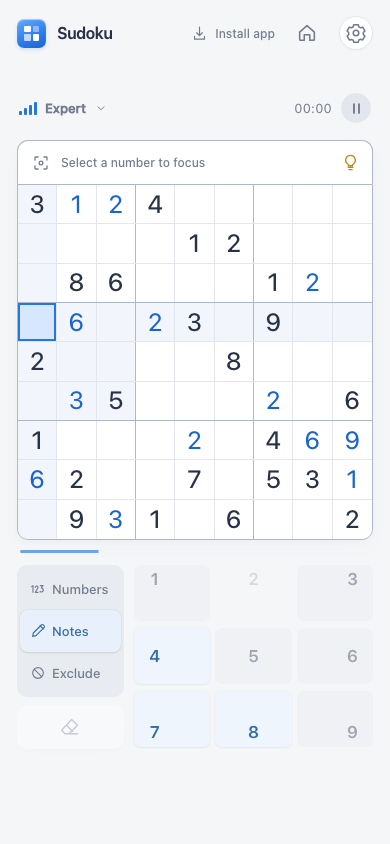
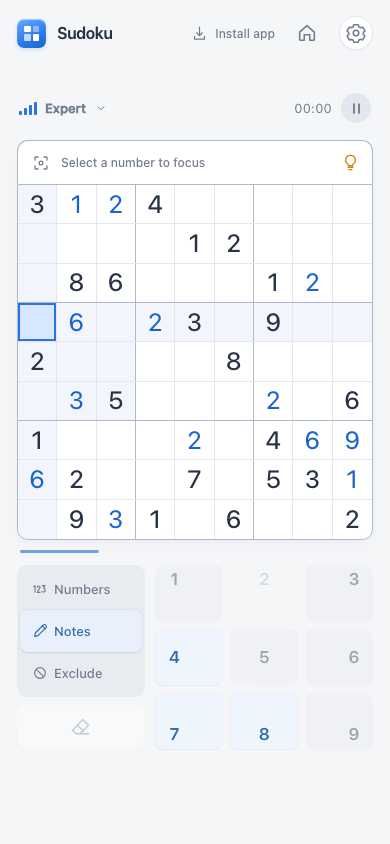
feat(keypad): side-by-side on wide short screens, one top row on short portrait, roomier mode column

diff --git a/src/app/globals.css b/src/app/globals.css
@@ -1,6 +1,6 @@
 :root {
   color-scheme: light;
-  --safe-top: env(safe-area-inset-top, 0px); --safe-bottom: env(safe-area-inset-bottom, 0px); --pad-bottom: 20px;
+  --safe-top: env(safe-area-inset-top, 0px); --safe-bottom: env(safe-area-inset-bottom, 0px); --pad-bottom: 20px; --bar-height: 94px;
   --note-red: #92545e; --note-blue: #346da8; --canvas: #f5f6f8; --surface: #fff; --ink: #273246; --secondary: #717c8e; --muted: #6b7485;
   --blue: #2776df; --blue-strong: #1965cd; --blue-soft: #e8f0fc; --selection: #d6e7ff;
   --possible: #e1f2e7; --peer: #f2f6fc; --matching: #e1edff; --line: #e3e7ed; --box-line: #adb9ca;
@@ -36,7 +36,7 @@ button { transition: transform 100ms ease, background-color 120ms ease, opacity 
 svg { flex-shrink: 0; display: inline-block; vertical-align: middle; }
 h1,h2,h3,p { margin: 0; }
 .app { min-height: 100svh; padding: var(--safe-top) max(20px, env(safe-area-inset-right)) max(var(--pad-bottom), var(--safe-bottom)) max(20px, env(safe-area-inset-left)); }
-.app-bar { max-width: 1040px; height: 94px; margin: 0 auto; display: flex; align-items: center; justify-content: space-between; }
+.app-bar { max-width: 1040px; height: var(--bar-height); margin: 0 auto; display: flex; align-items: center; justify-content: space-between; }
 .brand { display: flex; gap: 11px; align-items: center; font-size: 18px; font-weight: 650; letter-spacing: -.5px; }
 .app-mark { width: 62px; height: 62px; border-radius: 15px; display: grid; grid-template-columns: 1fr 1fr; gap: 4px; padding: 16px; background: linear-gradient(155deg, #65acff, #2878e8 65%, #1d63d1); box-shadow: inset 0 1px 1px #ffffff80, 0 2px 4px #2064bc24; }
 .app-mark i { display: block; border-radius: 2px; background: white; }
@@ -46,10 +46,9 @@ h1,h2,h3,p { margin: 0; }
 .install-button { display: flex; align-items: center; gap: 7px; min-height: 44px; font-size: 13px; font-weight: 500; color: var(--secondary); }
 .icon-button { width: 40px; height: 40px; display: grid; place-items: center; border-radius: 50%; color: var(--secondary); }
 .settings-button { background: var(--surface); box-shadow: 0 1px 3px #23395508; border: 1px solid var(--line); }
-.game { --game-width: 444px; --around-board: 490px; max-width: var(--game-width); margin: 28px auto 0; }
+.game { --game-width: 444px; --around-board: 396px; max-width: var(--game-width); margin: 28px auto 0; }
 /* The board's width is capped by the height left after everything else, so a short screen shrinks the board instead of hiding keys. */
-.game.play { max-width: max(280px, min(var(--game-width), calc(100svh - var(--around-board) - var(--safe-top) - max(0px, var(--safe-bottom) - var(--pad-bottom))))); }
-@media (max-height: 599px) { .game.play { max-width: var(--game-width); } }
+.game.play { max-width: max(280px, min(var(--game-width), calc(100svh - var(--around-board) - var(--bar-height) - var(--safe-top) - max(0px, var(--safe-bottom) - var(--pad-bottom))))); }
 .game-meta { position: relative; display: flex; align-items: center; justify-content: space-between; padding: 0 2px 11px; min-height: 55px; }
 .difficulty-button { display: flex; align-items: center; gap: 8px; color: var(--secondary); font-size: 13px; font-weight: 550; min-height: 30px; }
 .capitalize { text-transform: capitalize; }
@@ -107,22 +106,23 @@ h1,h2,h3,p { margin: 0; }
   .icon-button:hover { background: var(--line); }
   .install-button:hover { color: var(--blue); }
 }
-@media (min-width: 601px) and (max-height: 950px) { .app-bar { height: 68px; }.game { margin-top: 12px; --game-width: 420px; --around-board: 452px; }.desktop-caption { margin-top: 22px; } }
+@media (min-width: 601px) and (max-height: 950px) { :root { --bar-height: 68px; }.game { margin-top: 12px; --game-width: 420px; --around-board: 384px; }.desktop-caption { margin-top: 22px; } }
 @media (max-width: 600px) {
   :root { --pad-bottom: 10px; }
   .app { padding-left: max(17px,env(safe-area-inset-left)); padding-right: max(17px,env(safe-area-inset-right)); }
-  .app-bar { height: 66px; }.brand { font-size: 16px; }.app-actions { gap: 12px; }.settings-button { width: 34px; height: 34px; }.install-button { font-size: 12px; }
-  .game { margin-top: 19px; --around-board: 410px; }
-  .game-meta { padding-bottom: 9px; }.number-pad { gap: 5px; }.number-key { border-radius: 7px; }.number-key>span { font-size: 25px; }.desktop-caption { display: none; }
+  :root { --bar-height: 66px; }.brand { font-size: 16px; }.app-actions { gap: 12px; }.settings-button { width: 34px; height: 34px; }.install-button { font-size: 12px; }
+  .game { margin-top: 19px; --around-board: 344px; }
+  .game-meta { padding-bottom: 9px; }.number-key { border-radius: 7px; }.number-key>span { font-size: 25px; }.desktop-caption { display: none; }
   .sheet { width: 100%; max-width: 100%; max-height: 92svh; margin: auto 0 0; border-radius: 22px 22px 0 0; border-bottom: 0; }.sheet-content { padding: 31px 25px max(20px,env(safe-area-inset-bottom)); }.sheet-handle { display: block; position: absolute; width: 32px; height: 4px; border-radius: 4px; background: var(--line); top: 10px; left: calc(50% - 16px); }.sheet-close { top: 15px; }.sheet h2 { font-size: 23px; }
   .completion { gap: 10px; }.completion h2 { font-size: 19px; }.completion p { font-size: 11px; }.completion .primary-button { font-size: 12px; padding: 0 12px; }
 }
 @media (max-width: 600px) and (max-height: 760px) {
-  .app-bar { height: 53px; }.game { margin-top: 8px; --game-width: 354px; --around-board: 350px; }.game-meta { padding-bottom: 6px; }.progress-line { margin-top: 7px; }
+  :root { --bar-height: 53px; }.game { margin-top: 8px; --game-width: 354px; --around-board: 297px; }.game-meta { padding-bottom: 6px; }.progress-line { margin-top: 7px; }
 }
 @media (max-width: 360px) { .app { padding-left: 12px; padding-right: 12px; }.install-button>span { display: none; }.number-pad { gap: 4px; }.cell-number,.rejected-digit { font-size: 23px; }.number-key>span { font-size: 23px; }.sheet-content { padding-left: 20px; padding-right: 20px; } }
 @media (max-width: 600px) and (max-height: 640px) { .progress-line { margin-top: 5px; } }
-@media (display-mode: standalone) { .app-bar { height: 60px; } }
+@media (display-mode: standalone) { :root { --bar-height: 60px; } }
+@media (min-width: 601px) and (max-height: 760px) { .game { --around-board: 352px; } }
 @media (prefers-reduced-motion: reduce) { *,*::before,*::after { animation-duration: .01ms !important; animation-iteration-count: 1 !important; transition-duration: .01ms !important; } }
 @media (prefers-reduced-motion: reduce) { .rejected-digit,.rejection-source { animation: none !important; } }
 @media (prefers-reduced-motion: reduce) { .unit-celebration { animation: none !important; opacity: 1; } }
@@ -168,7 +168,7 @@ h1,h2,h3,p { margin: 0; }
 
 .note-controls { display: flex; flex-direction: column; align-items: stretch; gap: 8px; }
 .mode-switch { position: relative; flex: 1; display: grid; grid-template-rows: repeat(3, 1fr); padding: 3px; border-radius: 10px; background: color-mix(in srgb, var(--line) 70%, var(--canvas)); }
-.mode-option { position: relative; z-index: 1; transition: color .22s ease; display: flex; align-items: center; justify-content: flex-start; gap: 6px; min-height: 42px; padding: 0 8px; border-radius: 8px; font-size: 13px; font-weight: 500; color: var(--secondary); }
+.mode-option { position: relative; z-index: 1; transition: color .22s ease; display: flex; align-items: center; justify-content: flex-start; gap: 6px; min-height: 42px; padding: 0 12px; border-radius: 8px; font-size: 13px; font-weight: 500; color: var(--secondary); }
 .mode-option:disabled { opacity: .4; }
 .mode-indicator { position: absolute; top: 3px; left: 3px; right: 3px; height: calc((100% - 6px) / 3); border-radius: 8px; box-shadow: 0 1px 2px rgb(0 0 0 / .12); transition: transform .22s ease, background-color .22s ease; }
 .mode-indicator-value { background: var(--surface); }.mode-indicator-note { transform: translateY(100%); background: var(--blue-soft); }.mode-indicator-exclude { transform: translateY(200%); background: var(--red-soft); }
@@ -214,7 +214,7 @@ h1,h2,h3,p { margin: 0; }
 .walk-strike { stroke: var(--red); stroke-width: 2px; vector-effect: non-scaling-stroke; stroke-linecap: round; }
 .walk-ghost { position: absolute; inset: 0; display: grid; place-items: center; font-size: clamp(23px, 6.4vw, 29px); line-height: 1; font-weight: 460; color: var(--hint-strong); pointer-events: none; }
 .board-wrap.walkthrough .cell.walk-answer .notes { visibility: hidden; }
-.controls-area { position: relative; display: grid; grid-template-columns: minmax(96px, 30%) minmax(0, 1fr); gap: 10px; margin-top: 12px; }
+.controls-area { position: relative; display: grid; grid-template-columns: minmax(122px, 36%) minmax(0, 1fr); gap: 10px; margin-top: 12px; }
 @media (max-height: 760px) { .number-pad { gap: 6px; } .number-pad .number-key { height: 48px; } .controls-area { margin-top: 8px; } .note-controls { gap: 6px; } .mode-option { min-height: 36px; } .erase-control { min-height: 36px; } }
 
 .walk-panel { position: absolute; top: 0; left: 0; right: 0; min-height: 100%; z-index: 5; display: flex; flex-direction: column; gap: 8px; padding: 12px 16px; border-radius: 16px; background: var(--hint-soft); border: 1px solid color-mix(in srgb, var(--hint) 35%, transparent); }
@@ -384,3 +384,24 @@ h1,h2,h3,p { margin: 0; }
 @media (hover: hover) { .history-day:is(button):hover { background: var(--peer); } }
 @media (hover: hover) { .home-level:hover { border-color: color-mix(in srgb, var(--level) 45%, transparent); } .home-lesson:hover, .home-install:hover, .home-chip.home-all:hover, .home-chip.home-solved-count:hover, .home-hero:not(.quiet):hover { border-color: var(--box-line); } }
 @media (prefers-reduced-motion: reduce) { .home-hero .home-board { animation: none; } }
+/* Wide, short screens (a folding phone open, laptops, iPads in landscape): the board takes the height and the controls sit beside it. */
+@media (min-aspect-ratio: 5/4) and (min-height: 500px) and (max-height: 820px) {
+  .game.play { --board: max(200px, min(560px, calc(100svh - 144px - var(--bar-height) - var(--safe-top) - max(0px, var(--safe-bottom) - var(--pad-bottom))))); max-width: calc(var(--board) + 28px + 320px); display: grid; grid-template-columns: var(--board) 320px; column-gap: 28px; align-items: start; }
+  .game.play > .game-meta { grid-column: 1; grid-row: 1; }
+  .game.play > .puzzle-panel { grid-column: 1; grid-row: 2; }
+  .game.play > .progress-line { grid-column: 1; grid-row: 3; }
+  .game.play > :is(.controls-area, .completion, .lesson-footer, .notice) { grid-column: 2; grid-row: 1 / span 3; align-self: center; margin-top: 0; }
+  .desktop-caption { display: none; }
+}
+/* Short portrait screens: the app bar folds into the game's top row, so the 3 × 3 grid still fits under the board. */
+@media (max-height: 599px) and (max-aspect-ratio: 5/4) {
+  .app-bar:not(.lesson-bar):has(~ .game.play) { height: 0; }
+  .app-bar:not(.lesson-bar):has(~ .game.play) :is(.brand, .install-button) { display: none; }
+  .app-bar:not(.lesson-bar):has(~ .game.play) .app-actions { position: absolute; top: calc(var(--safe-top) + 6px); right: max(17px, env(safe-area-inset-right)); z-index: 3; gap: 4px; }
+  .app-bar:not(.lesson-bar):has(~ .game.play) .icon-button { width: 36px; height: 36px; }
+  .game.play { margin-top: 6px; max-width: max(260px, min(var(--game-width), calc(100svh - 270px - var(--safe-top) - max(0px, var(--safe-bottom) - var(--pad-bottom))))); }
+  .game.play .game-meta { min-height: 40px; padding: 0 84px 6px 0; }
+  .game.play .digit-focus-bar { height: 36px; font-size: 12px; }
+}
+/* Landscape phones are too short for either layout, so the board keeps its size and the page scrolls. */
+@media (max-height: 499px) and (min-aspect-ratio: 5/4) { .game.play { max-width: var(--game-width); } }

diff --git a/e2e/keypad.spec.ts b/e2e/keypad.spec.ts
@@ -49,8 +49,8 @@ test('the mode indicator sits on the chosen mode', async ({ page }) => {
   }
 });
 
-// Full-screen phones, phones in Safari with the browser bars showing, laptops, and an iPad in landscape.
-const SIZES = [[390, 844], [375, 667], [393, 659], [375, 628], [390, 664], [360, 640], [1440, 790], [1280, 761], [1024, 768], [1440, 900]].map(([width, height]) => ({ width, height }));
+// Full-screen phones, phones in Safari with the browser bars showing, small and folding phones, laptops, and iPads.
+const SIZES = [[390, 844], [375, 667], [393, 659], [375, 628], [390, 664], [360, 640], [375, 553], [320, 568], [466, 678], [466, 590], [890, 626], [626, 890], [1440, 790], [1280, 761], [1280, 720], [1024, 768], [1440, 900]].map(([width, height]) => ({ width, height }));
 for (const size of SIZES) {
   test(`the game fits without scrolling at ${size.width} × ${size.height}`, async ({ page }) => {
     await page.setViewportSize(size);
@@ -113,4 +113,58 @@ test('on short screens the keys end level with Erase', async ({ page }) => {
   await openGame(page);
   const [nine, erase] = await Promise.all([key(page, 9), box(page, '.erase-control')]);
   expect(Math.abs(nine.y + nine.height - (erase.y + erase.height))).toBeLessThan(1);
+});
+
+test('on tall phones the keys end level with Erase', async ({ page }) => {
+  await seed(page);
+  await openGame(page);
+  const [nine, erase] = await Promise.all([key(page, 9), box(page, '.erase-control')]);
+  expect(Math.abs(nine.y + nine.height - (erase.y + erase.height))).toBeLessThan(1);
+});
+
+test('the mode buttons have room for their labels', async ({ page }) => {
+  for (const [width, height] of [[390, 844], [375, 553]] as const) {
+    await page.setViewportSize({ width, height });
+    await seed(page);
+    await openGame(page);
+    for (const mode of ['value', 'note', 'exclude']) {
+      const fits = await page.locator(`.mode-option.mode-${mode}`).evaluate(el => el.scrollWidth <= el.clientWidth && el.getBoundingClientRect().right <= el.parentElement!.getBoundingClientRect().right);
+      expect(fits).toBe(true);
+    }
+  }
+});
+
+for (const [width, height] of [[890, 626], [1440, 790], [1024, 768]] as const) {
+  test(`at ${width} × ${height} the controls sit beside the board`, async ({ page }) => {
+    await page.setViewportSize({ width, height });
+    await seed(page);
+    await openGame(page);
+    const [board, pad] = await Promise.all([box(page, '.board-wrap'), box(page, '.number-pad')]);
+    expect(pad.x).toBeGreaterThan(board.x + board.width);
+    expect(board.width).toBeGreaterThan(400);
+  });
+}
+
+for (const [width, height] of [[375, 553], [466, 590]] as const) {
+  test(`at ${width} × ${height} the header is one row and the grid stays`, async ({ page }) => {
+    await page.setViewportSize({ width, height });
+    await seed(page);
+    await openGame(page);
+    const [difficulty, home, settings, one, four] = await Promise.all([box(page, '.difficulty-button'), box(page, '.home-button'), box(page, '.app-bar .settings-button'), key(page, 1), key(page, 4)]);
+    expect(Math.abs(difficulty.y + difficulty.height / 2 - (home.y + home.height / 2))).toBeLessThan(6);
+    expect(Math.abs(settings.y - home.y)).toBeLessThan(1);
+    expect(four.y).toBeGreaterThan(one.y + one.height - 1);
+    await expect(page.locator('.app-bar .brand')).toBeHidden();
+  });
+}
+
+test('the installed app on a short phone fits with its taller app bar', async ({ page }) => {
+  await page.setViewportSize({ width: 375, height: 667 });
+  await page.addInitScript(() => document.addEventListener('DOMContentLoaded', () => {
+    document.documentElement.style.setProperty('--safe-top', '20px');
+    document.documentElement.style.setProperty('--bar-height', '60px');
+  }));
+  await seed(page);
+  await openGame(page);
+  expect(await page.evaluate(() => document.documentElement.scrollHeight <= innerHeight)).toBe(true);
 });

diff --git a/docs/plans/2026-09-28-keypad-grid-design.md b/docs/plans/2026-09-28-keypad-grid-design.md
@@ -5,9 +5,18 @@ Roadmap item: R8, number grid keypad. On September 28 Sean chose A, tools beside
 ## Layout
 
 - The one-row number pad becomes a 3 × 3 grid on the right: 1 2 3, 4 5 6, 7 8 9, like a phone keypad and like a cell's notes.
-- On the left, Numbers, Notes, and Exclude stack vertically, with Erase below them. The mode indicator slides up and down to the active mode.
+- On the left, Numbers, Notes, and Exclude stack vertically, with Erase below them. The column is at least 122px wide, so the labels have room. The mode indicator slides up and down to the active mode.
 - Keys are 56px tall, and 48px below 760px of height, where the keys and the tool column end level; the mode buttons and Erase stay at least 36px.
 - On short screens (phones in Safari with the browser bars showing, laptops, iPad in landscape), the board shrinks to fit the height left after everything else, down to 280px wide, so the game doesn't scroll. The calculation includes the installed app's notch and home-bar padding. Only the play screen shrinks; Home, Learn, History, and Replay keep their width. Below 600px of height the board keeps its size and the page scrolls, since it couldn't fit anyway. On a 390 × 844 phone the board keeps its full width.
+
+## Other screen shapes
+
+On September 28 Sean asked how the grid fits the iPhone Duo's squat screens, then chose these after seeing them rendered (references: ../designs/keypad-side-by-side.png and ../designs/keypad-short-portrait.png):
+
+- **Wide, short screens** (at least 5:4 and 500–820px tall: a folding phone open, laptops, iPads in landscape): the board takes the height on the left, up to 560px, and the modes and grid sit beside it, centered.
+- **Short portrait screens** (under 600px tall: a folding phone closed, or an iPhone SE, in Safari): the app bar folds into the difficulty and timer row, the focus bar shrinks to 36px, and the 3 × 3 grid stays. The logo and Install are left for Home. Sean chose this over falling back to the one-row keypad.
+- **Landscape phones** (under 500px tall): unchanged; the page scrolls.
+- The height formula reads the app bar's height from `--bar-height`, so the installed app's taller bar is counted.
 
 ## Keys
 

diff --git a/README.md b/README.md
@@ -30,7 +30,7 @@ The build generates `public/sw.js` after Next.js finishes, precaching the comple
 
 - The app opens on Home: continue the puzzle in progress, start an Easy, Medium, Hard or Expert puzzle, open the next lesson, or browse all techniques. Home also shows how many puzzles you have solved and, until the app is installed, an install card. The Home button or the browser's back button returns there from a game.
 - Select an empty cell, then a number to enter it. With a filled cell selected, the number pad and digit keys focus that digit without replacing the value. Starting numbers cannot be changed. With Block incorrect answers on, a wrong number is refused and shown struck through in red.
-- The Numbers | Notes | Exclude control switches what the number keys do. Notes add or remove pencil marks; Exclude crosses out digits and removes those cells from Smart highlighting for that digit.
+- The Numbers, Notes, and Exclude buttons beside the number grid switch what the number keys do. Notes add or remove pencil marks; Exclude crosses out digits and removes those cells from Smart highlighting for that digit.
 - Drag across empty cells, or hold one, to select several. A number then toggles that note or exclusion in every selected cell. Tap a filled cell or press Escape to finish.
 - Erase clears your number or annotations from the selected cell. It stays visible and dims when there is nothing to erase.
 - Fill notes in Settings replaces notes in every empty cell with all candidates allowed by placed numbers, keeping crossed-out exclusions. Generated notes are blue. One undo restores the previous annotations. Entering a number removes matching notes and exclusions from related cells.

diff --git a/docs/ROADMAP.md b/docs/ROADMAP.md
@@ -404,6 +404,7 @@ Captured from Sean on September 24. Long-term scope, modeled on the way Good Sud
 - **Current identity:** the name "Sudoku", the blue four-square mark, the line "A calm Sudoku that teaches you every technique, one move at a time" (page metadata, link-preview image and its alt text, README), the desktop caption "A simple game. A little space to think.", and Home's greeting and headlines.
 - **Research:** Decide what carries the new positioning: the name, the mark and app icon, a tagline, color and type, and the tone of in-app copy. List every surface that shows the brand: the app icon and manifest, the install sheet, Home, the share and link-preview images, README, and the landing copy on seanoliver.dev.
 - **Output:** Three rendered brand directions, each shown on the app icon, Home, and the link-preview image, then a scope proposal.
+- **Also in scope:** a single top row on the play screen for every phone, combining the app bar and the difficulty and timer row. Short portrait screens already use it (R8); on taller phones it would give the board about 90px more.
 
 ## Very low priority: desktop experience
 
